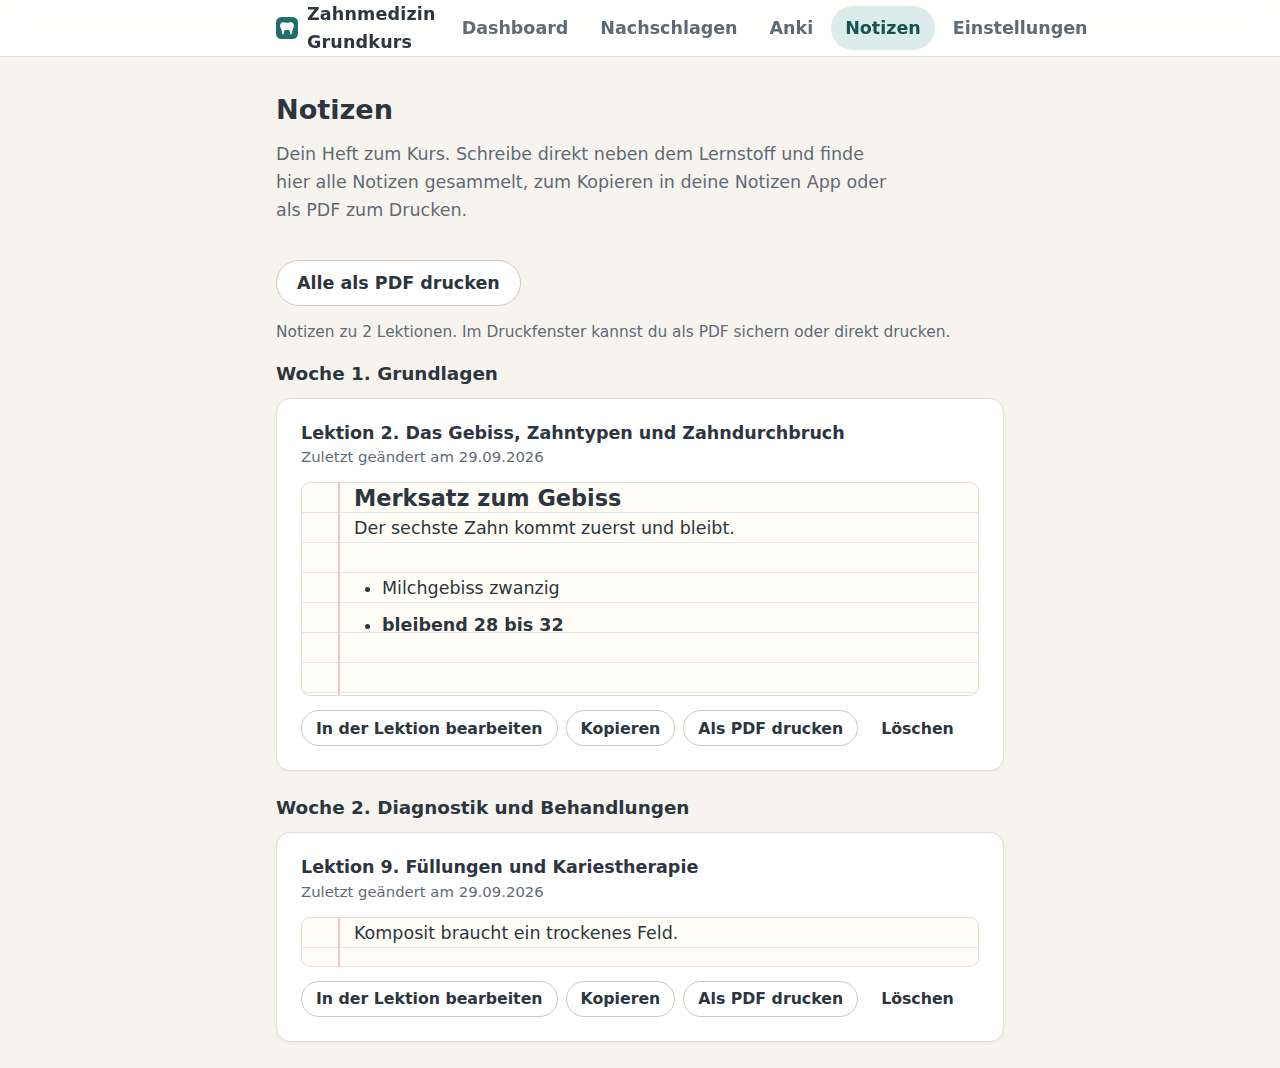
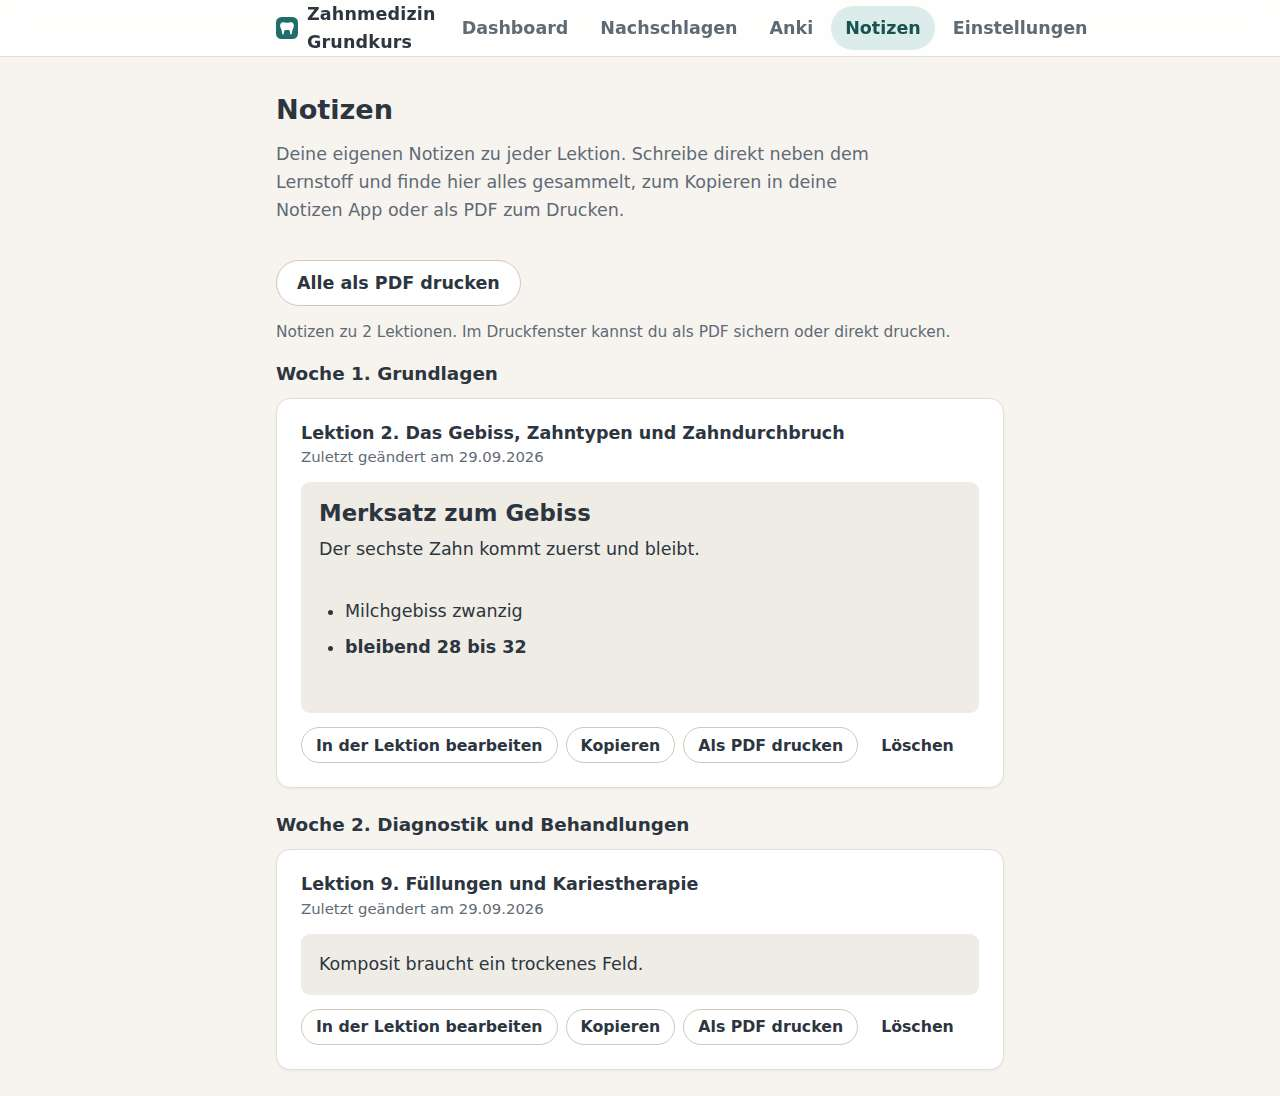
Notes drop the notebook look for the plain platform style
The ruled lines, the red margin and the paper tint are gone. The
writing surface is a clean sheet in the surface color with the site
typography, the note cards on the Notizen page use the soft surface
tint, and the wording no longer speaks of a Heft. Print styles
simplified accordingly.

Claude-Session: https://claude.ai/code/session_017QQYA8W3regmf6QmCDd9Fy

diff --git a/src/styles/global.css b/src/styles/global.css
@@ -564,20 +564,13 @@ svg .visLabelStrong {
   border: 0;
 }
 
-/* Notebook paper for the lesson notes and the marker pen */
+/* Colors of the marker pen in the lessons */
 :root {
-  --note-paper: #fffdf5;
-  --note-rule: #dfe7ee;
-  --note-margin: #ecc6c1;
-  --note-rule-h: 30px;
   --marker: #ffe89e;
   --marker-strong: #e8c95d;
 }
 
 html[data-theme='dark'] {
-  --note-paper: #20262d;
-  --note-rule: #333c46;
-  --note-margin: #5c4341;
   --marker: #5c4f22;
   --marker-strong: #8a7433;
 }
@@ -598,43 +591,45 @@ mark.userMark:hover {
 
 /*
  * Typography of a note, shared by the editor, the notes page and the
- * print view. The line height matches the ruling of the paper.
+ * print view. Clean text in the style of the platform.
  */
 .noteContent {
   font-size: 1rem;
-  line-height: var(--note-rule-h);
+  line-height: 1.65;
   overflow-wrap: anywhere;
 }
 
 .noteContent p,
 .noteContent div {
   margin: 0;
-  min-height: var(--note-rule-h);
+  min-height: 1.65em;
 }
 
 .noteContent h1 {
-  font-size: 1.28rem;
-  line-height: var(--note-rule-h);
-  margin: 0;
+  font-size: 1.3rem;
+  line-height: 1.35;
+  margin: 18px 0 6px;
   font-weight: 750;
 }
 
 .noteContent h2,
 .noteContent h3 {
-  font-size: 1.1rem;
-  line-height: var(--note-rule-h);
-  margin: 0;
+  font-size: 1.08rem;
+  line-height: 1.4;
+  margin: 14px 0 4px;
   font-weight: 700;
+}
+
+.noteContent h1:first-child,
+.noteContent h2:first-child,
+.noteContent h3:first-child {
+  margin-top: 0;
 }
 
 .noteContent ul,
 .noteContent ol {
-  margin: 0;
-  padding-left: 28px;
-}
-
-.noteContent li {
-  line-height: var(--note-rule-h);
+  margin: 4px 0;
+  padding-left: 26px;
 }
 
 .noteContent u {
@@ -699,22 +694,8 @@ mark.userMark:hover {
     padding-bottom: 8px;
   }
 
-  .notePrintArea .noteContent,
   .notePrintArea .noteContent p,
-  .notePrintArea .noteContent div,
-  .notePrintArea .noteContent li {
-    line-height: 1.55;
+  .notePrintArea .noteContent div {
     min-height: 0;
-  }
-
-  .notePrintArea .noteContent h1 {
-    line-height: 1.3;
-    margin: 14px 0 4px;
-  }
-
-  .notePrintArea .noteContent h2,
-  .notePrintArea .noteContent h3 {
-    line-height: 1.35;
-    margin: 10px 0 2px;
   }
 }

diff --git a/src/components/notes/NotesPanel.module.css b/src/components/notes/NotesPanel.module.css
@@ -141,26 +141,15 @@
   flex: 1 1 auto;
   min-height: 0;
   overflow-y: auto;
-  padding: 12px 14px;
   background: var(--surface);
 }
 
 .paper {
-  min-height: calc(100% - 2px);
-  padding: 30px 22px 60px 56px;
+  min-height: 100%;
+  padding: 20px 24px 64px;
   outline: none;
   caret-color: var(--accent-strong);
-  border: 1px solid var(--border);
-  border-radius: 10px;
-  box-shadow: var(--shadow);
-  background-color: var(--note-paper);
-  background-image:
-    linear-gradient(to right, transparent 0 40px, var(--note-margin) 40px 42px, transparent 42px),
-    repeating-linear-gradient(
-      to bottom,
-      transparent 0 calc(var(--note-rule-h) - 1px),
-      var(--note-rule) calc(var(--note-rule-h) - 1px) var(--note-rule-h)
-    );
+  background: var(--surface);
 }
 
 .paper ::selection {
@@ -169,10 +158,10 @@
 
 .placeholder {
   position: absolute;
-  top: 42px;
-  left: 70px;
-  right: 40px;
-  line-height: var(--note-rule-h);
+  top: 20px;
+  left: 24px;
+  right: 24px;
+  line-height: 1.65;
   color: var(--text-soft);
   pointer-events: none;
   margin: 0;

diff --git a/src/ui/strings.ts b/src/ui/strings.ts
@@ -189,13 +189,13 @@ export const strings = {
     title: 'Notizen',
     navLabel: 'Notizen',
     subtitle:
-      'Dein Heft zum Kurs. Schreibe direkt neben dem Lernstoff und finde hier alle Notizen gesammelt, zum Kopieren in deine Notizen App oder als PDF zum Drucken.',
+      'Deine eigenen Notizen zu jeder Lektion. Schreibe direkt neben dem Lernstoff und finde hier alles gesammelt, zum Kopieren in deine Notizen App oder als PDF zum Drucken.',
     openPanel: 'Notizen',
     panelTitle: (n: number) => `Notizen zu Lektion ${n}`,
     closePanel: 'Notizen schliessen',
     save: 'Speichern',
     savedAt: (time: string) => `Gespeichert um ${time} Uhr`,
-    autoHint: 'Beim Tippen sichert das Heft automatisch.',
+    autoHint: 'Beim Tippen wird automatisch gesichert.',
     placeholder: 'Schreib deine Gedanken zur Lektion hier hinein …',
     toolbarLabel: 'Formatierung',
     blockLabel: 'Absatz',

diff --git a/src/pages/NotesPage.module.css b/src/pages/NotesPage.module.css
@@ -82,20 +82,11 @@
 }
 
 .noteView {
-  background: var(--note-paper);
-  border: 1px solid var(--border);
+  background: var(--surface-2);
   border-radius: var(--radius-small);
-  padding: 0 18px 18px 52px;
+  padding: 16px 18px;
   max-height: 420px;
   overflow-y: auto;
-  background-image:
-    linear-gradient(to right, transparent 0 36px, var(--note-margin) 36px 38px, transparent 38px),
-    repeating-linear-gradient(
-      to bottom,
-      transparent 0 calc(var(--note-rule-h) - 1px),
-      var(--note-rule) calc(var(--note-rule-h) - 1px) var(--note-rule-h)
-    );
-  background-attachment: local;
 }
 
 .noteActions {

diff --git a/README.md b/README.md
@@ -104,11 +104,11 @@ Beim Markieren einer Textstelle in einer Lektion erscheinen zwei Knoepfe. Markie
 
 ## 7. Notizen
 
-Zu jeder Lektion gibt es ein eigenes Notizblatt im Stil eines Hefts, mit Linien und rotem Rand, aber in der Schrift der Plattform.
+Zu jeder Lektion gibt es eigene Notizen, im gleichen klaren Look wie der Rest der Plattform.
 
-* In der Lektion den Knopf Notizen druecken. Auf grossen Bildschirmen teilt sich die Seite, links der Lernstoff, rechts das Heft. Auf dem Handy legt sich das Heft ueber die Lektion.
+* In der Lektion den Knopf Notizen druecken. Auf grossen Bildschirmen teilt sich die Seite, links der Lernstoff, rechts die Notizen. Auf dem Handy legen sich die Notizen ueber die Lektion.
 * Beim Schreiben stehen Titel, Untertitel, Fett, Kursiv, Unterstrichen, Aufzaehlung, nummerierte Liste, drei Schriftarten und vier Schriftgroessen bereit.
-* Der Knopf Speichern sichert sofort, zusaetzlich sichert das Heft kurz nach dem Tippen automatisch. Die Notizen wandern ueber die Synchronisation mit auf die anderen Geraete.
+* Der Knopf Speichern sichert sofort, zusaetzlich wird kurz nach dem Tippen automatisch gesichert. Die Notizen wandern ueber die Synchronisation mit auf die anderen Geraete.
 * Die Seite Notizen sammelt alle Notizblaetter nach Woche und Lektion. Dort gibt es pro Notiz Kopieren fuer die Notizen App auf MacBook oder Handy, Teilen fuers Handy, Als PDF drucken sowie Loeschen, und oben Alle als PDF drucken.
 
 ## 8. Tests und Qualitaetslauf
@@ -118,7 +118,7 @@ Zu jeder Lektion gibt es ein eigenes Notizblatt im Stil eines Hefts, mit Linien 
     npm run typecheck   TypeScript im strikten Modus
     npm run build       Produktion bauen, inklusive Service Worker
 
-Der komplette Browserdurchlauf oeffnet jede Lektion in Chromium, prueft alle Visuals, macht jeden Test mit Zufallsantworten, prueft die Handyansicht mit 390 Pixel Breite und legt Screenshots in den Ordner screenshots. Der zweite Durchlauf prueft die Synchronisation mit zwei simulierten Geraeten und dem Kopplungslink. Der dritte Durchlauf prueft die Anki Karten und den Leuchtstift, vom Markieren im Text mit Neuladen und Entfernen ueber alle drei Kartenarten samt Vorschlaegen und eine Lernrunde mit Fehlversuch bis zu Bearbeiten, Loeschen und Neuladen. Der vierte Durchlauf prueft die Notizen, vom Schreiben und Formatieren im Heft ueber Speichern, Kopieren und den PDF Druck bis zu Bearbeiten, Loeschen und Neuladen.
+Der komplette Browserdurchlauf oeffnet jede Lektion in Chromium, prueft alle Visuals, macht jeden Test mit Zufallsantworten, prueft die Handyansicht mit 390 Pixel Breite und legt Screenshots in den Ordner screenshots. Der zweite Durchlauf prueft die Synchronisation mit zwei simulierten Geraeten und dem Kopplungslink. Der dritte Durchlauf prueft die Anki Karten und den Leuchtstift, vom Markieren im Text mit Neuladen und Entfernen ueber alle drei Kartenarten samt Vorschlaegen und eine Lernrunde mit Fehlversuch bis zu Bearbeiten, Loeschen und Neuladen. Der vierte Durchlauf prueft die Notizen, vom Schreiben und Formatieren ueber Speichern, Kopieren und den PDF Druck bis zu Bearbeiten, Loeschen und Neuladen.
 
     npm run build
     npm run preview

diff --git a/ABSCHLUSSBERICHT.md b/ABSCHLUSSBERICHT.md
@@ -84,9 +84,9 @@ Auf Wunsch nachgeruestet. Eine eigene Seite Anki mit selbst erstellten Lernkarte
 
 ## Nachtrag. Notizen
 
-Auf Wunsch nachgeruestet. Ein Heft fuer eigene Notizen direkt neben dem Lernstoff.
+Auf Wunsch nachgeruestet. Eigene Notizen direkt neben dem Lernstoff.
 
-* In jeder Lektion oeffnet der Knopf Notizen ein Notizblatt im Heftlook mit Linien und rotem Rand, auf grossen Bildschirmen als geteilte Ansicht neben dem Text, auf dem Handy als Blatt ueber der Lektion. Die Schrift bleibt die der Plattform
+* In jeder Lektion oeffnet der Knopf Notizen die Notizansicht, auf grossen Bildschirmen als geteilte Ansicht neben dem Text, auf dem Handy ueber der Lektion. Look und Schrift entsprechen dem Rest der Plattform
 * Formatierung mit Titel, Untertitel, Fett, Kursiv, Unterstrichen, Aufzaehlung, nummerierter Liste, drei Schriftarten und vier Schriftgroessen
 * Speichern per Knopf und zusaetzlich automatisch kurz nach dem Tippen, auch beim Verlassen der Ansicht geht nichts verloren. Die Notizen synchronisieren auf alle gekoppelten Geraete, Loeschungen setzen sich durch
 * Die Seite Notizen gruppiert alle Blaetter nach Woche und Lektion, mit Kopieren fuer die Notizen App auf MacBook und Handy, Teilen ueber das Teilen Menue des Handys, PDF Druck pro Notiz oder fuer alles zusammen und Loeschen mit Rueckfrage
@@ -99,7 +99,7 @@ Auf Wunsch nachgeruestet.
 
 * Beim Markieren einer Textstelle erscheinen jetzt zwei Knoepfe. Markieren malt die Stelle dauerhaft mit dem gelben Leuchtstift an, Lernkarte macht daraus eine Karte. Markierungen ueberleben das Neuladen, synchronisieren auf alle Geraete und lassen sich per Tipp und Markierung entfernen wieder loeschen
 * Der Karteneditor bringt fuer jede Kartenart einen fertigen Vorschlag aus der markierten Stelle mit. Bei Auswahl A B C wird das Schluesselwort zur Luecke in der Frage und zwei plausible falsche Antworten kommen aus dem Glossar, sodass die Karte ohne Tippen speicherbar ist
-* Die geteilte Ansicht nutzt seit dem letzten Nachtrag die volle Bildschirmbreite, das Heft liegt jetzt als eigenes Blatt mit Rundung und Schatten in der Ansicht und die Auswahlfelder der Werkzeugleiste tragen den Look der Plattform
+* Die geteilte Ansicht nutzt seit dem letzten Nachtrag die volle Bildschirmbreite, die Notizen tragen durchgehend den klaren Look der Plattform und die Auswahlfelder der Werkzeugleiste den Chip Stil der Seite
 * Abgesichert mit 12 neuen Tests fuer Verankerung im Text, Zusammenfuehrung, Speicherung und Vorschlaege sowie erweiterten Browserdurchlaeufen fuer Leuchtstift und Vorschlaege, alles ohne Konsolenfehler
 
 ## Notizen zum Inhalt
